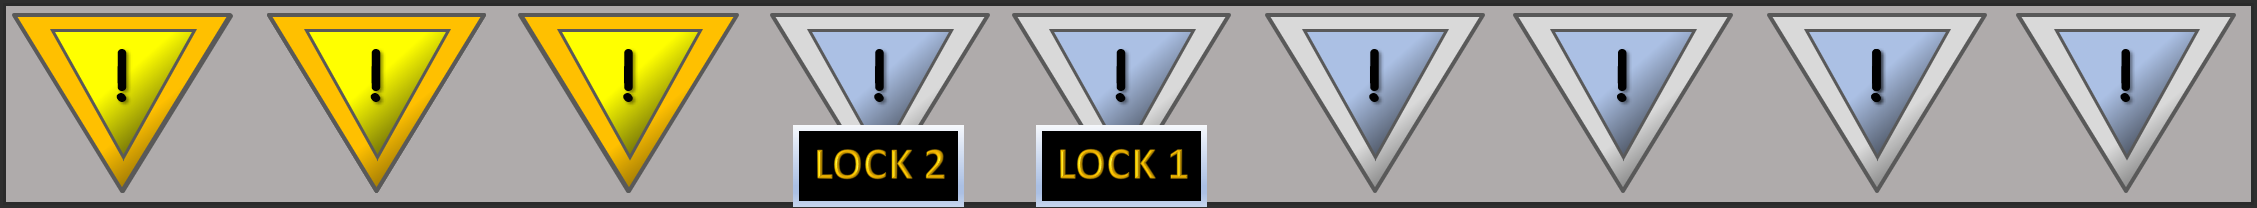
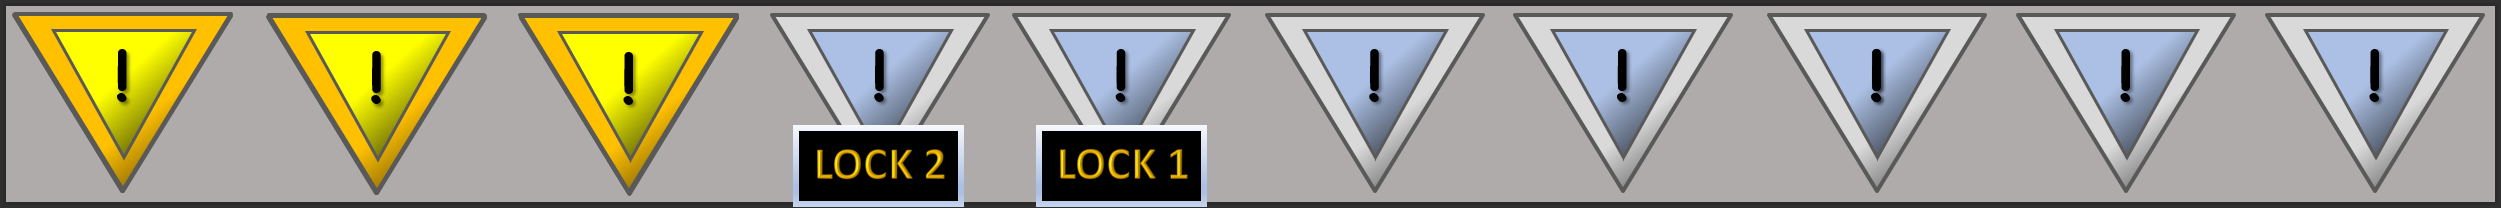
Lagt til flagginfo i ui

diff --git a/src/main/java/inf112/skeleton/app/Screen/UserInterface.java b/src/main/java/inf112/skeleton/app/Screen/UserInterface.java
@@ -6,19 +6,13 @@ import com.badlogic.gdx.graphics.g2d.Sprite;
 import com.badlogic.gdx.scenes.scene2d.*;
 import com.badlogic.gdx.scenes.scene2d.ui.Image;
 import com.badlogic.gdx.scenes.scene2d.ui.ImageButton;
-import com.badlogic.gdx.scenes.scene2d.utils.ActorGestureListener;
 import com.badlogic.gdx.scenes.scene2d.utils.ClickListener;
 import com.badlogic.gdx.scenes.scene2d.utils.DragListener;
 import com.badlogic.gdx.scenes.scene2d.utils.SpriteDrawable;
 import inf112.skeleton.app.Cards.PlayerDeck;
 import inf112.skeleton.app.Cards.ProgramCard;
 import inf112.skeleton.app.Directions.Position;
-import inf112.skeleton.app.Game.RoboRally;
 import inf112.skeleton.app.Player.Player;
-
-import java.awt.event.MouseAdapter;
-import java.awt.event.MouseEvent;
-import java.awt.event.MouseMotionAdapter;
 import java.util.ArrayList;
 import java.util.Arrays;
 import java.util.HashMap;
@@ -27,7 +21,9 @@ public class UserInterface {
 
     private ImageButton playButton;
     private ImageButton powerDownButton;
+
     private Image damageTokenImage;
+    private Image flagCheckImage;
 
     private Image cardSlotsTop;
     private Image cardSlotsMid;
@@ -66,16 +62,17 @@ public class UserInterface {
         return stage;
     }
 
-    public void getDamageTokenOfPlayer(){
-        if(stage.getActors().contains(damageTokenImage, false)) {
+    public void getDamageTokenOfPlayer() {
+        if (stage.getActors().contains(damageTokenImage, false))
             stage.getActors().removeValue(damageTokenImage, false);
-            System.out.println("heu");
-        }
 
 
         int damageTokens = player.getHealth();
         Texture damageTokenTexture;
         switch (damageTokens) {
+            case 10:
+                damageTokenTexture = new Texture("assets/userInterface/damageTokens/damageTokens10.png");
+                break;
             case 9:
                 damageTokenTexture = new Texture("assets/userInterface/damageTokens/damageTokens9.png");
                 break;
@@ -110,22 +107,11 @@ public class UserInterface {
                 damageTokenTexture = new Texture("assets/userInterface/damageTokens/damageTokens0.png");
                 break;
         }
-        Sprite lifeTokenSprite = new Sprite(damageTokenTexture);
-        damageTokenImage = new Image(new SpriteDrawable(lifeTokenSprite));
-        damageTokenImage.addListener(new DragListener(){
-            @Override
-            public void drag(InputEvent event, float x, float y, int pointer) {
-                damageTokenImage.moveBy(x - damageTokenImage.getWidth() / 2, y - damageTokenImage.getHeight() / 2);
-            }
-
-            @Override
-            public void dragStop(InputEvent event, float x, float y, int pointer) {
-                System.out.println("X: " + damageTokenImage.getX() + " " + "Y: " + damageTokenImage.getY());
-            }
-        });
-        damageTokenImage.setHeight(damageTokenImage.getHeight() / 7 + 10);
-        damageTokenImage.setWidth(damageTokenImage.getWidth() / 7-10);
-        damageTokenImage.setPosition(420, 0);
+        Sprite damageTokenSprite = new Sprite(damageTokenTexture);
+        damageTokenImage = new Image(new SpriteDrawable(damageTokenSprite));
+        damageTokenImage.setHeight(damageTokenImage.getHeight() / 7 + 14);
+        damageTokenImage.setWidth(width / 2);
+        damageTokenImage.setPosition(width / 2, 0);
         stage.addActor(damageTokenImage);
     }
 
@@ -151,23 +137,55 @@ public class UserInterface {
         }
         Sprite lifeTokenSprite = new Sprite(lifeTokenTexture);
         final Image lifeTokenImage = new Image(new SpriteDrawable(lifeTokenSprite));
-        lifeTokenImage.setHeight(lifeTokenImage.getHeight() / 8);
+        lifeTokenImage.setHeight(lifeTokenImage.getHeight() / 8 + 5);
         lifeTokenImage.setWidth(lifeTokenImage.getWidth() / 8);
-        lifeTokenImage.setPosition(490, 42);
+        lifeTokenImage.setPosition(width - lifeTokenImage.getWidth() - playButton.getWidth(), 43);
         stage.addActor(lifeTokenImage);
     }
 
+    public void getFlagInfo() {
+        if(stage.getActors().contains(flagCheckImage, false))
+            stage.getActors().removeValue(flagCheckImage, false);
+
+        int lastFlagVisited = player.getLastFlagVisited();
+        Texture flagCheckTexture;
+        switch (lastFlagVisited) {
+            case 3:
+                flagCheckTexture = new Texture("assets/userInterface/flagChecks/flagCheck3.png");
+                break;
+            case 2:
+                flagCheckTexture = new Texture("assets/userInterface/flagChecks/flagCheck2.png");
+                break;
+            case 1:
+                flagCheckTexture = new Texture("assets/userInterface/flagChecks/flagCheck1.png");
+                break;
+            default:
+                flagCheckTexture = new Texture("assets/userInterface/flagChecks/flagCheck0.png");
+                break;
+        }
+        Sprite flagCheckSprite = new Sprite(flagCheckTexture);
+        flagCheckImage = new Image(new SpriteDrawable(flagCheckSprite));
+        flagCheckImage.setHeight(flagCheckImage.getHeight() / 8 +11);
+        flagCheckImage.setWidth(flagCheckImage.getWidth() / 8);
+        flagCheckImage.setPosition(width/2, 43);
+        flagCheckImage.toFront();
+        flagCheckImage.addListener(new DragListener(){
+            @Override
+            public void drag(InputEvent event, float x, float y, int pointer) {
+                flagCheckImage.moveBy(x-flagCheckImage.getWidth()/2, y-flagCheckImage.getHeight()/2);
+            }
+
+            @Override
+            public void dragStop(InputEvent event, float x, float y, int pointer) {
+                System.out.println("X: " + flagCheckImage.getX() + " Y: " + flagCheckImage.getY());
+            }
+        });
+        stage.addActor(flagCheckImage);
+    }
 
     private void initializeCardSlots() {
         //Creates the slot bars
         Sprite picture = new Sprite(new Texture("assets/hand/hand5v3.png"));
-        cardSlotsBottom = new Image(new SpriteDrawable(picture));
-        cardSlotsBottom.setWidth(width / 2);
-        cardSlotsBottom.setHeight(picture.getHeight() + 25);
-        cardSlotsBottom.setScale(0.8f);
-        cardSlotsBottom.setPosition(424, 106);
-
-        picture = new Sprite(new Texture("assets/hand/hand5v3.png"));
         cardSlotsTop = new Image(new SpriteDrawable(picture));
         cardSlotsTop.setWidth(width / 2);
         cardSlotsTop.setHeight(picture.getHeight() + 25);
@@ -179,23 +197,32 @@ public class UserInterface {
         cardSlotsMid = new Image(new SpriteDrawable(picture));
         cardSlotsMid.setWidth(width / 2);
         cardSlotsMid.setHeight(picture.getHeight() + 25);
-        cardSlotsMid.setPosition(424, 199);
+        cardSlotsMid.setPosition(424, 200);
         cardSlotsMid.setScale(0.8f);
         cardSlotsMid.setColor(Color.LIGHT_GRAY);
+
+        picture = new Sprite(new Texture("assets/hand/hand5v3.png"));
+        cardSlotsBottom = new Image(new SpriteDrawable(picture));
+        cardSlotsBottom.setWidth(width / 2);
+        cardSlotsBottom.setHeight(picture.getHeight() + 25);
+        cardSlotsBottom.setScale(0.8f);
+        cardSlotsBottom.setPosition(424, 108);
+
+
     }
 
-    private void initializeSideBars(){
+    private void initializeSideBars() {
 
         Sprite picture = new Sprite(new Texture("assets/userInterface/leftSideBar.png"));
         leftBar = new Image(new SpriteDrawable(picture));
-        leftBar.setWidth(leftBar.getWidth());
-        leftBar.setHeight(leftBar.getHeight()/2);
-        leftBar.setPosition(width/2,0);
+        leftBar.setWidth(leftBar.getWidth() * 2);
+        leftBar.setHeight(leftBar.getHeight() / 2);
+        leftBar.setPosition(width / 2, 0);
 
         picture = new Sprite(new Texture("assets/userInterface/rightSideBar.png"));
         rightBar = new Image(new SpriteDrawable(picture));
-        rightBar.setWidth(rightBar.getWidth());
-        rightBar.setHeight(rightBar.getHeight()/2);
+        rightBar.setWidth(rightBar.getWidth() * 2);
+        rightBar.setHeight(rightBar.getHeight() / 2);
         rightBar.setPosition(width - rightBar.getWidth(), 0);
 
     }
@@ -203,9 +230,9 @@ public class UserInterface {
     private void initializePlayButton() {
         Sprite picture = new Sprite(new Texture("assets/userInterface/playButton.png"));
         playButton = new ImageButton(new SpriteDrawable(picture));
-        playButton.setWidth(playButton.getWidth()/7);
-        playButton.setHeight(playButton.getHeight()/7);
-        playButton.setPosition(667, 74);
+        playButton.setWidth(playButton.getWidth() / 7);
+        playButton.setHeight(playButton.getHeight() / 7+4);
+        playButton.setPosition(width-playButton.getWidth(), 78);
         playButton.addListener(new ClickListener() {
             @Override
             public void clicked(InputEvent event, float x, float y) {
@@ -233,9 +260,9 @@ public class UserInterface {
     private void initializePowerDownButton() {
         Sprite picture = new Sprite(new Texture("assets/userInterface/powerDownButton.png"));
         powerDownButton = new ImageButton(new SpriteDrawable(picture));
-        powerDownButton.setWidth(powerDownButton.getWidth()/7);
-        powerDownButton.setHeight(powerDownButton.getHeight()/7);
-        powerDownButton.setPosition(667, 42);
+        powerDownButton.setWidth(powerDownButton.getWidth() / 7);
+        powerDownButton.setHeight(powerDownButton.getHeight() / 7 +4);
+        powerDownButton.setPosition(width-powerDownButton.getWidth(), 42);
         powerDownButton.addListener(new ClickListener() {
             @Override
             public void clicked(InputEvent event, float x, float y) {
@@ -255,7 +282,7 @@ public class UserInterface {
             float pWidth = (picture.getWidth() / 8) * 0.8f;
             float pHeight = (picture.getHeight() / 8) * 0.8f;
             float firstCardX = 428;
-            float firstCardY = 297;
+            float firstCardY = 298;
             cardImage.setWidth(pWidth);
             cardImage.setHeight(pHeight);
 
@@ -265,13 +292,13 @@ public class UserInterface {
                 cardImage.setOrigin(firstCardX + (i * pWidth), firstCardY);
 
                 //List of coordinates for the bottom slot row for easy access
-                pos[i] = new Position((int) (firstCardX + (i * pWidth)), (int) (firstCardY - pHeight*2 - 26));
+                pos[i] = new Position((int) (firstCardX + (i * pWidth)), (int) (firstCardY - pHeight * 2 - 26));
             }
 
             //Place remaining 4 cards in row beneath
             else {
-                cardImage.setPosition(firstCardX + ((i - 5) * pWidth), firstCardY - pHeight-13);
-                cardImage.setOrigin(firstCardX + ((i - 5) * pWidth), firstCardY - pHeight-13);
+                cardImage.setPosition(firstCardX + ((i - 5) * pWidth), firstCardY - pHeight - 13);
+                cardImage.setOrigin(firstCardX + ((i - 5) * pWidth), firstCardY - pHeight - 13);
             }
 
             //Adds dragging functionality to each image
@@ -382,6 +409,7 @@ public class UserInterface {
         stage.addActor(powerDownButton);
         getDamageTokenOfPlayer();
         getLifeTokenOfPlayer();
+        getFlagInfo();
     }
 
 }

diff --git a/src/main/java/inf112/skeleton/app/Screen/PlayScreen.java b/src/main/java/inf112/skeleton/app/Screen/PlayScreen.java
@@ -61,8 +61,11 @@ public class PlayScreen implements Screen {
             tickTime = 0;
             gameMap.preformNextMovement();
         }
-        if(tickTime > 0.1){
+        //Update ui
+        if(tickTime > 0.2){
             ui.getDamageTokenOfPlayer();
+            ui.getLifeTokenOfPlayer();
+            ui.getFlagInfo();
         }
     }
 

diff --git a/src/main/java/inf112/skeleton/app/Player/Player.java b/src/main/java/inf112/skeleton/app/Player/Player.java
@@ -8,7 +8,7 @@ import inf112.skeleton.app.GameObjects.PlayerLayerObject;
 
 public class Player {
 
-    public static final int MAX_HEALTH = 9;
+    public static final int MAX_HEALTH = 10;
     public static final int MAX_LIFE_TOKENS = 3;
 
     private Position backup;
